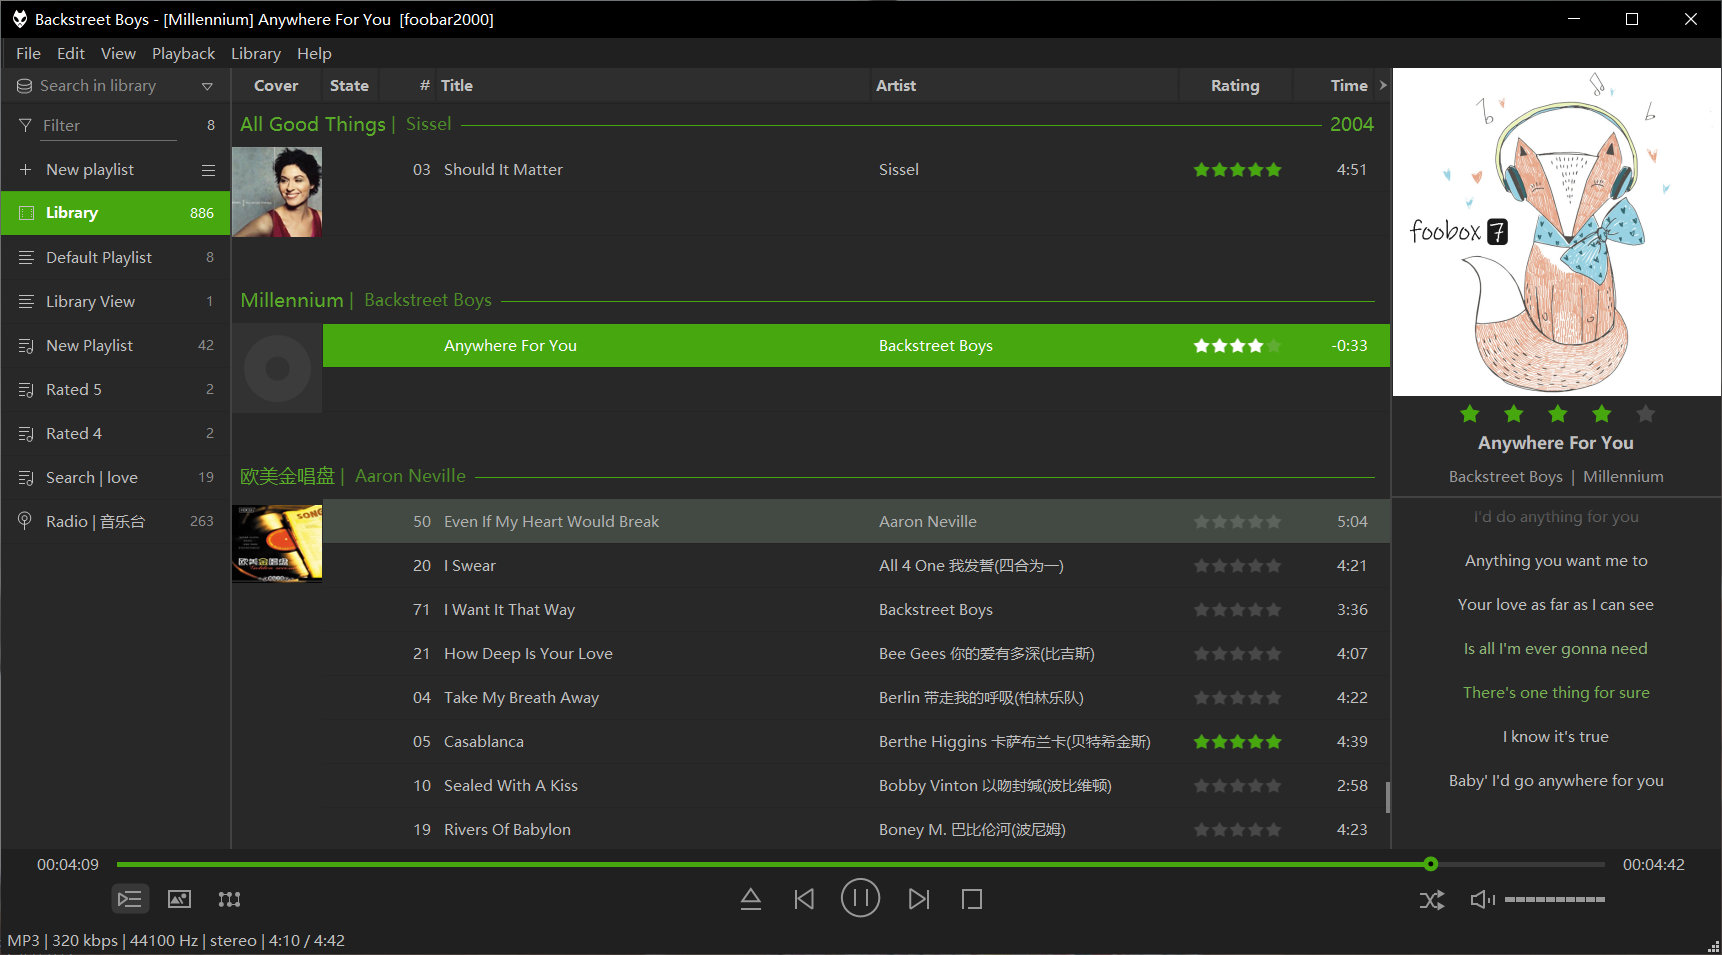
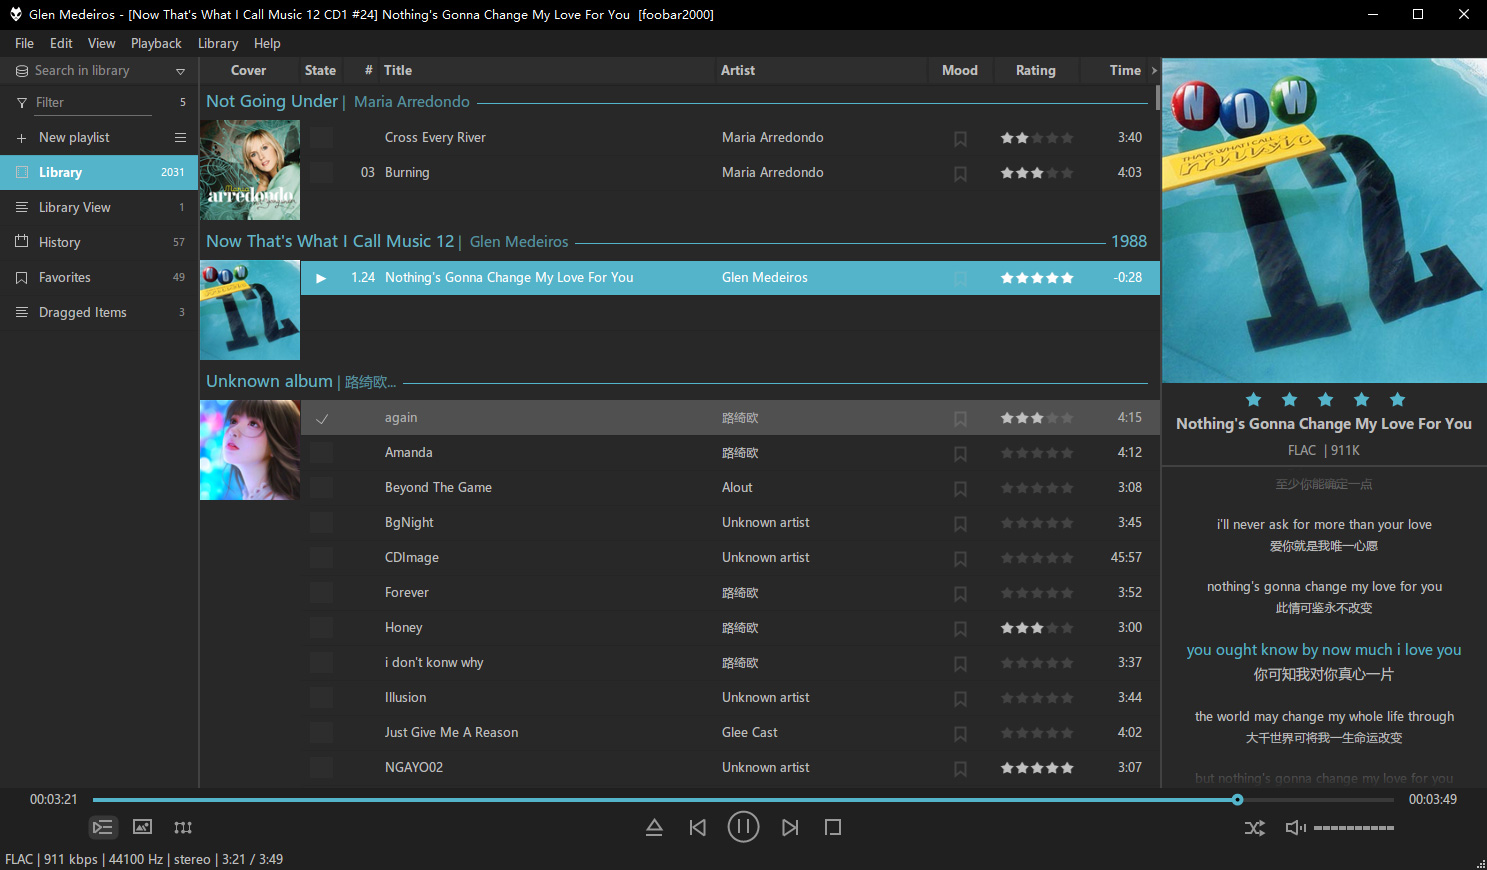
7.4-3

diff --git a/foobox/js_panels/infoArt.js b/foobox/js_panels/infoArt.js
@@ -66,7 +66,7 @@ var time_circle = Number(window.GetProperty("Info: Circle time, 3000~60000ms", 1
 if (time_circle < 3000) time_circle = 3000;
 if (time_circle > 60000) time_circle = 60000;
 var rbutton = Array();
-var c_background, c_highlight, fontcolor, fontcolor2, icocolor, c_default_hl;
+var c_background, c_highlight, fontcolor, fontcolor2, icocolor, c_default_hl, c_rating_h;
 var tracktype;
 var img_rating_on, img_rating_off, mood_img, btn_mood, TextBtn_info;
 
@@ -136,7 +136,8 @@ function get_colors() {
 	fontcolor = window.GetColourDUI(ColorTypeDUI.text);
 	c_default_hl = window.GetColourDUI(ColorTypeDUI.highlight);
 	c_highlight = c_default_hl;
-	icocolor = fontcolor & 0x35ffffff;
+	c_rating_h = c_highlight;
+	icocolor = fontcolor & 0x2dffffff;
 	fontcolor2 = blendColors(c_background, fontcolor, 0.75);
 	dark_mode = isDarkMode(c_background);
 }
@@ -154,7 +155,7 @@ function get_imgs() {
 	img_rating_on = gdi.CreateImage(imgw, imgh);
 	gb = img_rating_on.GetGraphics();
 	gb.SetSmoothingMode(2);
-	gb.FillPolygon(c_highlight, 0, pointArr.p1);
+	gb.FillPolygon(c_rating_h, 0, pointArr.p1);
 	gb.SetSmoothingMode(0);
 	img_rating_on.ReleaseGraphics(gb);
 
@@ -168,7 +169,7 @@ function get_imgs() {
 	mood_img = gdi.CreateImage(imgw, mood_h*2);
 	gb = mood_img.GetGraphics();
 	gb.SetSmoothingMode(2);
-	gb.DrawPolygon(c_highlight, 2, pointArr.p2);
+	gb.DrawPolygon(c_rating_h, 2, pointArr.p2);
 	gb.DrawPolygon(icocolor, 2, pointArr.p3);
 	gb.SetSmoothingMode(0);
 	mood_img.ReleaseGraphics(gb);
@@ -1941,6 +1942,7 @@ function Controller(imgArray, imgDisplay, prop) {
 			currentImage = null;
 			imgDisplay.ChangeImage(1, currentImage, isNewgroup ? 2 : 1);
 			if(get_imgCol) {
+				getColorSchemeFromImage();
 				window.NotifyOthers("color_scheme_updated", null);
 				if(eslPanels) eslPanels.SetTextHighlightColor(c_default_hl);
 			}
@@ -1964,19 +1966,16 @@ function Controller(imgArray, imgDisplay, prop) {
 		}else{
 			var imgColorData = JSON.parse(currentImage.GetColourSchemeJSON(1));
 			imgColor = toRGB(imgColorData[0].col);
-			//if (Math.abs(imgColor[0]-imgColor[1])<15 && Math.abs(imgColor[0]-imgColor[2])<15 && Math.abs(imgColor[1]-imgColor[2])<15) {
-			//	window.NotifyOthers("color_scheme_updated", null);
-			//	get_imgCol = false;
-			//	on_colorscheme_update(null);
-			//	return;
-			//}
 			if(imgColor[0]>160 && imgColor[1]>160 && imgColor[2]>160){
-				var reduction = Math.round((imgColor[0]+imgColor[1]+imgColor[2] - 480) / 3);
-				imgColor[0] = Math.max(imgColor[0]-reduction, 0);
-				imgColor[1] = Math.max(imgColor[1]-reduction, 0);
-				imgColor[2] = Math.max(imgColor[2]-reduction, 0);
+				if(!dark_mode && imgColor[0]>240 && imgColor[1]>240 && imgColor[2]>240) imgColor = false;
+				else{
+					var reduction = Math.round((imgColor[0]+imgColor[1]+imgColor[2] - 480) / 3);
+					imgColor[0] = Math.max(imgColor[0]-reduction, 0);
+					imgColor[1] = Math.max(imgColor[1]-reduction, 0);
+					imgColor[2] = Math.max(imgColor[2]-reduction, 0);
+				}
 			}
-			if(dark_mode && imgColor[0]<75 && imgColor[1]<75 && imgColor[2]<75){
+			else if(dark_mode && imgColor[0]<75 && imgColor[1]<75 && imgColor[2]<75){
 				var reduction = Math.round((225-imgColor[0]-imgColor[1]-imgColor[2]) / 3);
 				imgColor[0] = Math.min(imgColor[0]+reduction, 255);
 				imgColor[1] = Math.min(imgColor[1]+reduction, 255);
@@ -1992,7 +1991,14 @@ function Controller(imgArray, imgDisplay, prop) {
 		var c_hl_tmp = c_highlight;
 		if(imgColor) c_highlight = RGB(imgColor[0], imgColor[1], imgColor[2]);
 		else c_highlight = c_default_hl;
+		c_rating_h = c_highlight;
 		if(c_highlight != c_hl_tmp){
+			if(imgColor && dark_mode){
+				var r = getRed(c_background) + 27;
+				var g = getGreen(c_background) + 27;
+				var b = getBlue(c_background) + 27;
+				if(Math.abs(imgColor[0]-r)<25 && Math.abs(imgColor[1]-g)<25 && Math.abs(imgColor[2]-b)<25) c_rating_h = fontcolor;
+			}
 			get_imgs();
 			if (is_mood && show_infobar) btn_mood.resetImg();
 			if(eslPanels) eslPanels.SetTextHighlightColor(c_highlight);

diff --git a/foobox/js_panels/jsplaylist.js b/foobox/js_panels/jsplaylist.js
@@ -56,7 +56,8 @@ var g_font_queue_idx;
 var g_font_ud = null;
 // color vars
 var g_color_normal_bg = 0;
-var g_color_bt_overlay = 0;
+var g_color_star = 0;
+var g_color_star_h = 0;
 var g_color_selected_bg = 0;
 var g_color_normal_txt = 0;
 var g_color_selected_txt = 0;
@@ -715,10 +716,6 @@ function on_paint(gr) {
 				};
 				// draw flashing beam if scroll max reached on mouse wheel! (android like effect)
 				if (p.list.beam > 0) {
-					var r = getRed(g_color_highlight);
-					var g = getGreen(g_color_highlight);
-					var b = getBlue(g_color_highlight);
-					var a = Math.floor((p.list.beam_alpha <= 250 ? p.list.beam_alpha : 250) / 12);
 					var beam_h = Math.floor(cTrack.height * 7 / 4);
 					var alpha = (p.list.beam_alpha <= 255 ? p.list.beam_alpha : 255);
 					switch (p.list.beam) {
@@ -2147,7 +2144,14 @@ function on_notify_data(name, info) {
 		var c_ol_tmp = g_color_highlight;
 		if(info) g_color_highlight = RGB(info[0], info[1], info[2]);
 		else g_color_highlight = c_default_hl;
+		g_color_star_h = g_color_highlight;
 		if(g_color_highlight != c_ol_tmp){
+			if(info && dark_mode){
+				var r = getRed(g_color_normal_bg) + 27;
+				var g = getGreen(g_color_normal_bg) + 27;
+				var b = getBlue(g_color_normal_bg) + 27;
+				if(Math.abs(info[0]-r)<25 && Math.abs(info[0]-g)<25 && Math.abs(info[0]-b)<25) g_color_star_h = g_color_normal_txt;
+			}
 			get_images_color();
 			full_repaint();
 		}
@@ -2205,7 +2209,8 @@ function get_colors() {
 	g_color_topbar = g_color_normal_txt & 0x09ffffff;
 	c_default_hl = window.GetColourDUI(ColorTypeDUI.highlight);
 	g_color_highlight = c_default_hl;
-	g_color_bt_overlay = g_color_normal_txt & 0x35ffffff;
+	g_color_star = g_color_normal_txt & 0x2dffffff;
+	g_color_star_h = g_color_highlight;
 	if (isDarkMode(g_color_normal_bg)) dark_mode = 1;
 	else dark_mode = 0;
 };
@@ -2261,14 +2266,14 @@ function get_images_color() {
 	images.star = gdi.CreateImage(imgh, imgh);
 	gb = images.star.GetGraphics();
 	gb.SetSmoothingMode(2);
-	gb.FillPolygon(g_color_bt_overlay, 0, star_arr);
+	gb.FillPolygon(g_color_star, 0, star_arr);
 	gb.SetSmoothingMode(0);
 	images.star.ReleaseGraphics(gb);
 
 	images.star_h = gdi.CreateImage(imgh, imgh);
 	gb = images.star_h.GetGraphics();
 	gb.SetSmoothingMode(2);
-	gb.FillPolygon(g_color_highlight, 0, star_arr);
+	gb.FillPolygon(g_color_star_h, 0, star_arr);
 	gb.SetSmoothingMode(0);
 	images.star_h.ReleaseGraphics(gb);
 
@@ -2289,9 +2294,9 @@ function get_images_color() {
 	images.mood_ico = gdi.CreateImage(imgw, imgh*4);
 	gb = images.mood_ico.GetGraphics();
 	gb.SetSmoothingMode(2);
-	gb.DrawPolygon(g_color_highlight, 2, points_arr);
-	gb.DrawPolygon(g_color_bt_overlay, 2, points_arr_2);
-	gb.DrawPolygon(g_color_bt_overlay, 2, points_arr_3);
+	gb.DrawPolygon(g_color_star_h, 2, points_arr);
+	gb.DrawPolygon(g_color_star, 2, points_arr_2);
+	gb.DrawPolygon(g_color_star, 2, points_arr_3);
 	gb.DrawPolygon(RGBA(255,255,255,255), 2, points_arr_4);
 	gb.SetSmoothingMode(0);
 	images.mood_ico.ReleaseGraphics(gb);
